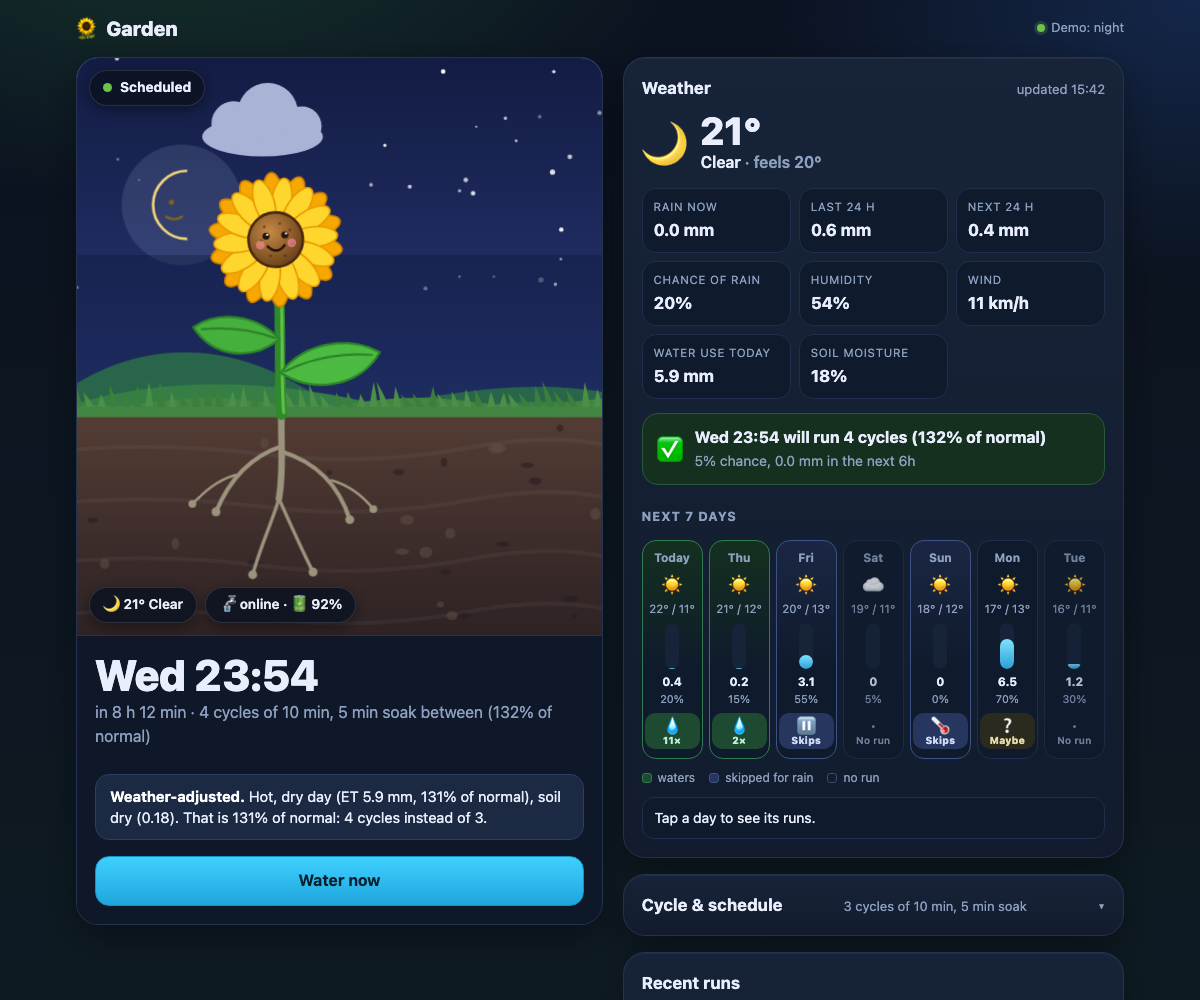
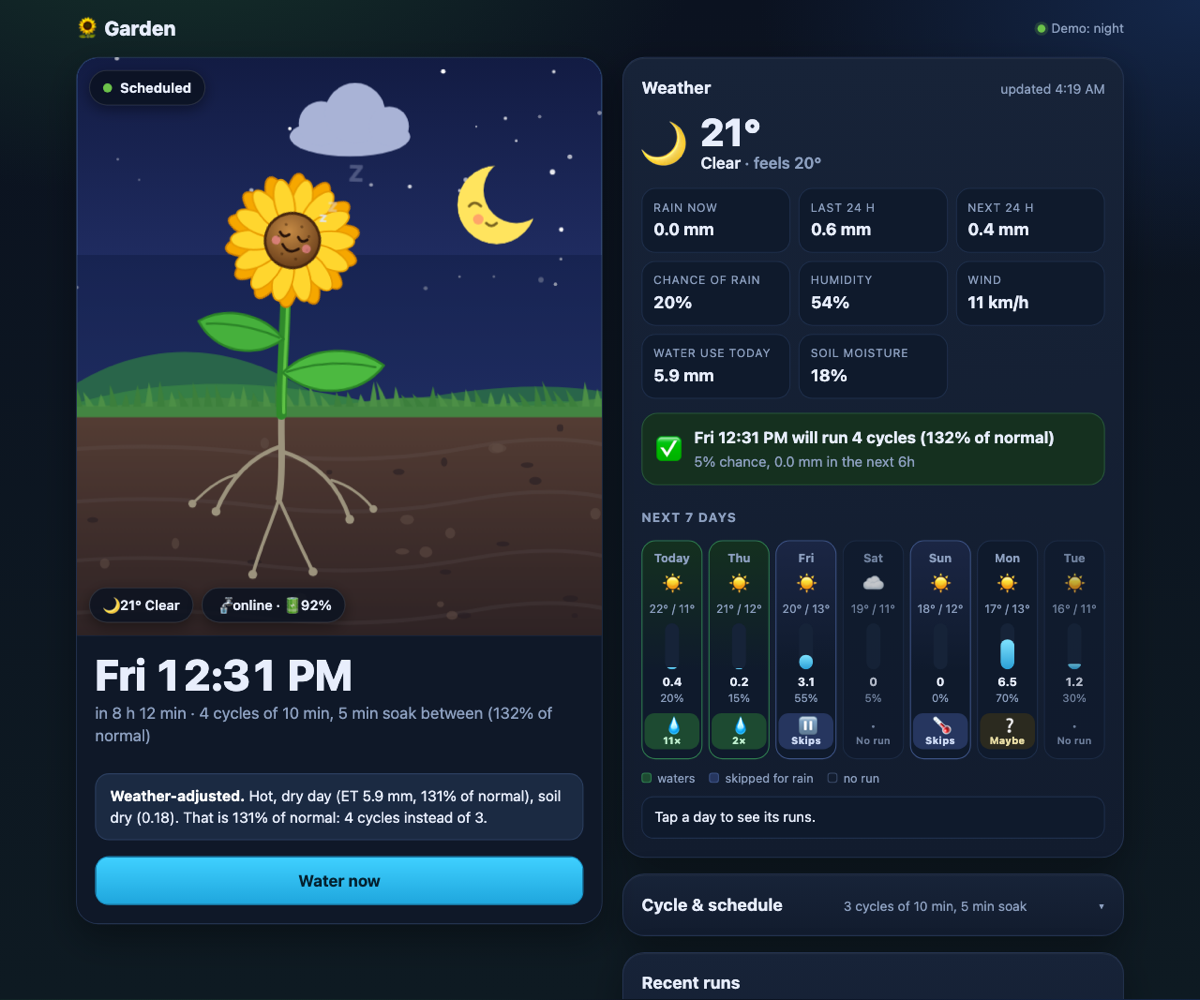
feat(ui): new moon, sleeping sunflower (#3)

diff --git a/docs/architecture/architecture.html b/docs/architecture/architecture.html
@@ -5197,7 +5197,7 @@ OTHER DEALINGS IN THE FONT SOFTWARE.
       </div>
     </div>
 
-    <script id="archify-source-evidence-data" type="application/json">{"schemaVersion":1,"verified":true,"repository":{"url":"https://github.com/srizzling/valve-controller","revision":"819355ffccd118fe5335145c0717883b1b1ebdf6","shortRevision":"819355f","label":"srizzling/valve-controller","href":"https://github.com/srizzling/valve-controller/tree/819355ffccd118fe5335145c0717883b1b1ebdf6"},"referenceCount":21,"nodes":{"you":[{"path":"worker/public/app.js","line":437,"endLine":447,"label":"UI calls /api","href":"https://github.com/srizzling/valve-controller/blob/819355ffccd118fe5335145c0717883b1b1ebdf6/worker/public/app.js#L437-L447"}],"access":[{"path":"worker/src/access.ts","line":48,"endLine":59,"label":"checkAccess","href":"https://github.com/srizzling/valve-controller/blob/819355ffccd118fe5335145c0717883b1b1ebdf6/worker/src/access.ts#L48-L59"}],"worker":[{"path":"worker/src/index.ts","line":20,"endLine":28,"label":"CSRF check, Access gate, routes","href":"https://github.com/srizzling/valve-controller/blob/819355ffccd118fe5335145c0717883b1b1ebdf6/worker/src/index.ts#L20-L28"},{"path":"worker/src/index.ts","line":87,"endLine":89,"label":"Security headers, Google routes","href":"https://github.com/srizzling/valve-controller/blob/819355ffccd118fe5335145c0717883b1b1ebdf6/worker/src/index.ts#L87-L89"},{"path":"worker/src/security.ts","line":13,"endLine":23,"label":"securityHeaders","href":"https://github.com/srizzling/valve-controller/blob/819355ffccd118fe5335145c0717883b1b1ebdf6/worker/src/security.ts#L13-L23"}],"controller":[{"path":"worker/src/controller.ts","line":137,"endLine":182,"label":"alarm: cycle/soak","href":"https://github.com/srizzling/valve-controller/blob/819355ffccd118fe5335145c0717883b1b1ebdf6/worker/src/controller.ts#L137-L182"},{"path":"worker/src/controller.ts","line":264,"endLine":310,"label":"supervise: one-hour limits","href":"https://github.com/srizzling/valve-controller/blob/819355ffccd118fe5335145c0717883b1b1ebdf6/worker/src/controller.ts#L264-L310"},{"path":"worker/src/smart.ts","line":52,"endLine":52,"label":"scale cycles by weather","href":"https://github.com/srizzling/valve-controller/blob/819355ffccd118fe5335145c0717883b1b1ebdf6/worker/src/smart.ts#L52"}],"tuya":[{"path":"worker/src/tuya.ts","line":143,"endLine":150,"label":"signed client","href":"https://github.com/srizzling/valve-controller/blob/819355ffccd118fe5335145c0717883b1b1ebdf6/worker/src/tuya.ts#L143-L150"},{"path":"worker/src/tuya.ts","line":166,"endLine":178,"label":"token refresh","href":"https://github.com/srizzling/valve-controller/blob/819355ffccd118fe5335145c0717883b1b1ebdf6/worker/src/tuya.ts#L166-L178"},{"path":"worker/src/tuya.ts","line":218,"endLine":220,"label":"sendCommands","href":"https://github.com/srizzling/valve-controller/blob/819355ffccd118fe5335145c0717883b1b1ebdf6/worker/src/tuya.ts#L218-L220"}],"valve":[{"path":"worker/src/valve.ts","line":65,"endLine":71,"label":"open + countdown","href":"https://github.com/srizzling/valve-controller/blob/819355ffccd118fe5335145c0717883b1b1ebdf6/worker/src/valve.ts#L65-L71"},{"path":"worker/src/valve.ts","line":78,"endLine":86,"label":"confirm state","href":"https://github.com/srizzling/valve-controller/blob/819355ffccd118fe5335145c0717883b1b1ebdf6/worker/src/valve.ts#L78-L86"}],"cron":[{"path":"worker/wrangler.jsonc","line":14,"endLine":14,"label":"* * * * *","href":"https://github.com/srizzling/valve-controller/blob/819355ffccd118fe5335145c0717883b1b1ebdf6/worker/wrangler.jsonc#L14"},{"path":"worker/src/index.ts","line":82,"endLine":84,"label":"scheduled -\u003e tick","href":"https://github.com/srizzling/valve-controller/blob/819355ffccd118fe5335145c0717883b1b1ebdf6/worker/src/index.ts#L82-L84"}],"google":[{"path":"worker/src/google.ts","line":108,"endLine":108,"label":"fulfillment","href":"https://github.com/srizzling/valve-controller/blob/819355ffccd118fe5335145c0717883b1b1ebdf6/worker/src/google.ts#L108"}],"weather":[{"path":"worker/src/rain.ts","line":15,"endLine":15,"label":"forecast API","href":"https://github.com/srizzling/valve-controller/blob/819355ffccd118fe5335145c0717883b1b1ebdf6/worker/src/rain.ts#L15"},{"path":"worker/src/weather.ts","line":164,"endLine":164,"label":"fetch forecast, ET and soil moisture","href":"https://github.com/srizzling/valve-controller/blob/819355ffccd118fe5335145c0717883b1b1ebdf6/worker/src/weather.ts#L164"},{"path":"worker/src/weather.ts","line":122,"endLine":123,"label":"fresh 30 min, stale up to 6 h","href":"https://github.com/srizzling/valve-controller/blob/819355ffccd118fe5335145c0717883b1b1ebdf6/worker/src/weather.ts#L122-L123"}],"ntfy":[{"path":"worker/src/ntfy.ts","line":11,"endLine":22,"label":"notify","href":"https://github.com/srizzling/valve-controller/blob/819355ffccd118fe5335145c0717883b1b1ebdf6/worker/src/ntfy.ts#L11-L22"}],"hc":[{"path":"worker/src/heartbeat.ts","line":15,"endLine":23,"label":"ping","href":"https://github.com/srizzling/valve-controller/blob/819355ffccd118fe5335145c0717883b1b1ebdf6/worker/src/heartbeat.ts#L15-L23"}]}}</script>
+    <script id="archify-source-evidence-data" type="application/json">{"schemaVersion":1,"verified":true,"repository":{"url":"https://github.com/srizzling/valve-controller","revision":"aade5196653e9800a7ef33b2846b3ca043f83cb8","shortRevision":"aade519","label":"srizzling/valve-controller","href":"https://github.com/srizzling/valve-controller/tree/aade5196653e9800a7ef33b2846b3ca043f83cb8"},"referenceCount":21,"nodes":{"you":[{"path":"worker/public/app.js","line":437,"endLine":447,"label":"UI calls /api","href":"https://github.com/srizzling/valve-controller/blob/aade5196653e9800a7ef33b2846b3ca043f83cb8/worker/public/app.js#L437-L447"}],"access":[{"path":"worker/src/access.ts","line":48,"endLine":59,"label":"checkAccess","href":"https://github.com/srizzling/valve-controller/blob/aade5196653e9800a7ef33b2846b3ca043f83cb8/worker/src/access.ts#L48-L59"}],"worker":[{"path":"worker/src/index.ts","line":20,"endLine":28,"label":"CSRF check, Access gate, routes","href":"https://github.com/srizzling/valve-controller/blob/aade5196653e9800a7ef33b2846b3ca043f83cb8/worker/src/index.ts#L20-L28"},{"path":"worker/src/index.ts","line":87,"endLine":89,"label":"Security headers, Google routes","href":"https://github.com/srizzling/valve-controller/blob/aade5196653e9800a7ef33b2846b3ca043f83cb8/worker/src/index.ts#L87-L89"},{"path":"worker/src/security.ts","line":13,"endLine":23,"label":"securityHeaders","href":"https://github.com/srizzling/valve-controller/blob/aade5196653e9800a7ef33b2846b3ca043f83cb8/worker/src/security.ts#L13-L23"}],"controller":[{"path":"worker/src/controller.ts","line":137,"endLine":182,"label":"alarm: cycle/soak","href":"https://github.com/srizzling/valve-controller/blob/aade5196653e9800a7ef33b2846b3ca043f83cb8/worker/src/controller.ts#L137-L182"},{"path":"worker/src/controller.ts","line":264,"endLine":310,"label":"supervise: one-hour limits","href":"https://github.com/srizzling/valve-controller/blob/aade5196653e9800a7ef33b2846b3ca043f83cb8/worker/src/controller.ts#L264-L310"},{"path":"worker/src/smart.ts","line":52,"endLine":52,"label":"scale cycles by weather","href":"https://github.com/srizzling/valve-controller/blob/aade5196653e9800a7ef33b2846b3ca043f83cb8/worker/src/smart.ts#L52"}],"tuya":[{"path":"worker/src/tuya.ts","line":143,"endLine":150,"label":"signed client","href":"https://github.com/srizzling/valve-controller/blob/aade5196653e9800a7ef33b2846b3ca043f83cb8/worker/src/tuya.ts#L143-L150"},{"path":"worker/src/tuya.ts","line":166,"endLine":178,"label":"token refresh","href":"https://github.com/srizzling/valve-controller/blob/aade5196653e9800a7ef33b2846b3ca043f83cb8/worker/src/tuya.ts#L166-L178"},{"path":"worker/src/tuya.ts","line":218,"endLine":220,"label":"sendCommands","href":"https://github.com/srizzling/valve-controller/blob/aade5196653e9800a7ef33b2846b3ca043f83cb8/worker/src/tuya.ts#L218-L220"}],"valve":[{"path":"worker/src/valve.ts","line":65,"endLine":71,"label":"open + countdown","href":"https://github.com/srizzling/valve-controller/blob/aade5196653e9800a7ef33b2846b3ca043f83cb8/worker/src/valve.ts#L65-L71"},{"path":"worker/src/valve.ts","line":78,"endLine":86,"label":"confirm state","href":"https://github.com/srizzling/valve-controller/blob/aade5196653e9800a7ef33b2846b3ca043f83cb8/worker/src/valve.ts#L78-L86"}],"cron":[{"path":"worker/wrangler.jsonc","line":14,"endLine":14,"label":"* * * * *","href":"https://github.com/srizzling/valve-controller/blob/aade5196653e9800a7ef33b2846b3ca043f83cb8/worker/wrangler.jsonc#L14"},{"path":"worker/src/index.ts","line":82,"endLine":84,"label":"scheduled -\u003e tick","href":"https://github.com/srizzling/valve-controller/blob/aade5196653e9800a7ef33b2846b3ca043f83cb8/worker/src/index.ts#L82-L84"}],"google":[{"path":"worker/src/google.ts","line":108,"endLine":108,"label":"fulfillment","href":"https://github.com/srizzling/valve-controller/blob/aade5196653e9800a7ef33b2846b3ca043f83cb8/worker/src/google.ts#L108"}],"weather":[{"path":"worker/src/rain.ts","line":15,"endLine":15,"label":"forecast API","href":"https://github.com/srizzling/valve-controller/blob/aade5196653e9800a7ef33b2846b3ca043f83cb8/worker/src/rain.ts#L15"},{"path":"worker/src/weather.ts","line":164,"endLine":164,"label":"fetch forecast, ET and soil moisture","href":"https://github.com/srizzling/valve-controller/blob/aade5196653e9800a7ef33b2846b3ca043f83cb8/worker/src/weather.ts#L164"},{"path":"worker/src/weather.ts","line":122,"endLine":123,"label":"fresh 30 min, stale up to 6 h","href":"https://github.com/srizzling/valve-controller/blob/aade5196653e9800a7ef33b2846b3ca043f83cb8/worker/src/weather.ts#L122-L123"}],"ntfy":[{"path":"worker/src/ntfy.ts","line":11,"endLine":22,"label":"notify","href":"https://github.com/srizzling/valve-controller/blob/aade5196653e9800a7ef33b2846b3ca043f83cb8/worker/src/ntfy.ts#L11-L22"}],"hc":[{"path":"worker/src/heartbeat.ts","line":15,"endLine":23,"label":"ping","href":"https://github.com/srizzling/valve-controller/blob/aade5196653e9800a7ef33b2846b3ca043f83cb8/worker/src/heartbeat.ts#L15-L23"}]}}</script>
     <script id="archify-i18n-data" type="application/json">{"locale":"en","messages":{"viewer.kind.frontend":"Frontend","viewer.kind.backend":"Backend","viewer.kind.database":"Database","viewer.kind.cloud":"Cloud","viewer.kind.security":"Security","viewer.kind.messagebus":"Message bus","viewer.kind.external":"External","viewer.kind.neutral":"Neutral","viewer.kind.node":"Node","viewer.kind.start":"Start","viewer.kind.active":"Active","viewer.kind.waiting":"Waiting","viewer.kind.decision":"Decision","viewer.kind.success":"Success","viewer.kind.failure":"Failure","viewer.toolbar.actions":"Diagram actions","viewer.theme.toggle.title":"Toggle theme (T)","viewer.theme.toggle":"Toggle color theme","viewer.theme.dark":"Dark","viewer.theme.light":"Light","viewer.preset.choose.title":"Choose visual style (S cycles)","viewer.preset.choose":"Choose visual style","viewer.preset.style":"Style","viewer.preset.menu":"Visual style","viewer.preset.identity":"Visual identity","viewer.preset.cycles":"to cycle","viewer.preset.classic":"Classic","viewer.preset.classic.short":"Classic","viewer.preset.classic.hint":"Stable technical default","viewer.preset.flow":"Signal Flow","viewer.preset.flow.short":"Flow","viewer.preset.flow.hint":"Motion-forward presentation","viewer.preset.blueprint":"Blueprint","viewer.preset.blueprint.hint":"Engineering review","viewer.preset.editorial":"Editorial","viewer.preset.editorial.hint":"Publication and launch notes","viewer.preset.badge.signalFlow":"SIGNAL FLOW","viewer.preset.badge.blueprint":"BLUEPRINT / REV 01","viewer.preset.badge.editorial":"EDITORIAL / FIELD NOTE","viewer.preset.badge.editorialPlate":"ARCHIFY / PLATE 04","viewer.preset.current":"Visual style: {style}. Choose visual style","viewer.motion.live":"Live","viewer.motion.still":"Still","viewer.motion.pause":"Pause motion","viewer.motion.resume":"Resume motion","viewer.motion.reduced":"Motion paused by reduced-motion preference","viewer.motion.hidden":"Motion paused while this page is hidden","viewer.motion.yielding":"Pause motion; currently yielding to {owner}","viewer.motion.yielding.title":"Live preview enabled · yielding to {owner}","viewer.owner.route":"Route Probe","viewer.owner.lens":"Semantic Lens","viewer.owner.relationship":"Relationship Preview","viewer.owner.intent":"Intent Trace","viewer.owner.focus":"semantic focus","viewer.owner.legend":"legend preview","viewer.owner.reader":"reader interaction","viewer.present.enter":"Enter presentation stage","viewer.present.enter.title":"Presentation stage (F)","viewer.present.exit":"Exit presentation stage","viewer.present.exit.title":"Exit presentation stage (F or Escape)","viewer.present.present":"Present","viewer.present.exit.label":"Exit","viewer.export.button":"Export","viewer.export.button.title":"Export diagram (E)","viewer.export.diagram":"Export diagram","viewer.export.menu":"Export","viewer.export.subtitle":"Portable, clean outputs","viewer.export.share":"Share","viewer.export.shareCard":"Share Card","viewer.export.routeShareCard":"Route Share Card","viewer.export.reachShareCard":"Reach Share Card","viewer.export.copyDiagram":"Copy diagram","viewer.export.clipboardPng":"PNG to clipboard","viewer.export.raster":"Raster images","viewer.export.image":"Image","viewer.export.lossless":"Lossless image","viewer.export.compact":"Compact image","viewer.export.modern":"Modern image","viewer.export.vectorMotion":"Vector and motion","viewer.export.vectorMotion.heading":"Vector \u0026 motion","viewer.export.editable":"Editable vector","viewer.export.svg.auto":"SVG · Auto","viewer.export.svg.auto.hint":"Matches host theme","viewer.export.svg.light":"SVG · Light","viewer.export.svg.light.hint":"Always light","viewer.export.svg.dark":"SVG · Dark","viewer.export.svg.dark.hint":"Always dark","viewer.export.motion6s":"6s motion","viewer.export.unsupported":"Not supported by this browser","viewer.export.clipboardUnsupported":"Clipboard image write not supported by this browser","viewer.export.clipboardUnsupported.short":"Clipboard image write not supported in this browser.","viewer.export.motionUnavailable":"Motion capture unavailable in this browser","viewer.export.webmUnavailable":"WebM unavailable in this browser","viewer.export.failed":"Export failed: {message}","viewer.export.unknownVariant":"Unknown Share Card variant: {variant}","viewer.export.routeRequired":"Trace a route before exporting a Route Share Card","viewer.export.reachRequired":"Trace authored reach before exporting a Reach Share Card","viewer.export.unknown":"unknown","viewer.export.routeFailed":"Route Share Card export failed: {message}","viewer.export.reachFailed":"Reach Share Card export failed: {message}","viewer.export.copyFailed":"Copy failed: {message}","viewer.export.copiedPng":"Copied PNG to clipboard","viewer.export.downloadedRoute":"Downloaded Route Share Card","viewer.export.downloadedReach":"Downloaded Reach Share Card","viewer.export.downloadedWebm":"Downloaded WebM","viewer.export.recording":"Recording 6 seconds of motion…","viewer.export.card.routeSummary.one":"Path: {source} → {target} · {count} step","viewer.export.card.routeSummary.other":"Path: {source} → {target} · {count} steps","viewer.export.card.reachSummary":"Authored {direction} from {origin} · {nodes} · {links} · max {hops}","viewer.export.card.node.one":"{count} node","viewer.export.card.node.other":"{count} nodes","viewer.export.card.link.one":"{count} link","viewer.export.card.link.other":"{count} links","viewer.export.card.hop.one":"{count} hop","viewer.export.card.hop.other":"{count} hops","viewer.export.card.routeBadge":"ARCHIFY · ROUTE · {hops}","viewer.export.card.reachBadge":"ARCHIFY · {direction} REACH","viewer.export.direction.upstream":"Upstream","viewer.export.direction.downstream":"Downstream","viewer.export.error.canvasUnavailable":"Canvas unavailable for {label}","viewer.export.error.contextUnavailable":"2D canvas context unavailable for {label}","viewer.export.error.toBlobUnavailable":"canvas.toBlob unavailable for {label}","viewer.export.error.toBlobNull":"canvas.toBlob returned no data for {label}","viewer.export.error.variantsCombined":"Share Card variants cannot be combined","viewer.export.error.viewerState":"Share Card export could not remove temporary viewer state","viewer.export.error.routeState":"Route Card export could not preserve the resolved route safely","viewer.export.error.reachState":"Reach Card export could not preserve authored reach safely","viewer.export.error.webmRequirements":"WebM motion export requires a trace animation and browser MediaRecorder support","viewer.export.error.mediaRecorder":"MediaRecorder failed","viewer.export.error.emptyWebm":"MediaRecorder produced an empty WebM","viewer.export.error.webmBackground":"SVG background could not be loaded for WebM export","viewer.guide.title":"Explore this system","viewer.focus.selectedNodes":"{count} selected nodes","viewer.guide.eyebrow":"Diagram guide","viewer.guide.close":"Close diagram guide","viewer.guide.inspecting":"Inspecting compiled semantics","viewer.guide.actions":"Diagram exploration actions","viewer.guide.find":"Find any node","viewer.guide.find.hint":"Search labels, responsibilities, kinds, and stable IDs.","viewer.guide.route":"Trace a route","viewer.guide.route.aria":"Trace a directed route","viewer.guide.route.hint":"Ask how two semantic nodes connect in authored direction.","viewer.guide.map":"See the whole system","viewer.guide.map.hint":"Open Semantic Radar with a live viewport and stable nodes.","viewer.guide.lens":"Compare semantic kinds","viewer.guide.lens.hint":"Count roles, reveal their traffic, and compare direct authored links.","viewer.guide.present":"Enter Presentation Stage","viewer.guide.present.hint":"Give the live diagram the viewport without changing export.","viewer.guide.shortcuts":"Additional keyboard shortcuts","viewer.guide.shortcut.export":"Export","viewer.guide.shortcut.theme":"Theme","viewer.guide.shortcut.style":"Style","viewer.guide.shortcut.reset":"Reset","viewer.guide.shortcut.zoomIn":"Zoom in","viewer.guide.shortcut.zoomOut":"Zoom out","viewer.guide.shortcut.close":"Close","viewer.guide.credit":"Find Archify useful? A star on GitHub helps","viewer.guide.star":"Star","viewer.guide.facts":"{nodes} · {relationships}","viewer.guide.fact.node.one":"{count} semantic node","viewer.guide.fact.node.other":"{count} semantic nodes","viewer.guide.fact.relationship.one":"{count} relationship","viewer.guide.fact.relationship.other":"{count} relationships","viewer.guide.open":"Open diagram guide","viewer.finder.title":"Find a node","viewer.finder.close":"Close node finder","viewer.finder.placeholder":"Search labels or IDs","viewer.finder.search":"Search diagram nodes","viewer.finder.results":"Diagram nodes","viewer.finder.empty":"No matching nodes","viewer.finder.result.focus":"Focus {label}","viewer.finder.result.routeStart":"Choose {label} as route start","viewer.finder.result.routeTarget":"Choose {label} as route destination, {links}","viewer.finder.status.empty":"No matching nodes","viewer.finder.status.count.one":"{count} matching node","viewer.finder.status.count.other":"{count} matching nodes","viewer.finder.noun.nodes":"nodes","viewer.finder.link.one":"{count} link","viewer.finder.link.other":"{count} links","viewer.finder.result.focus.one":"Focus {label}, {count} related connection","viewer.finder.result.focus.other":"Focus {label}, {count} related connections","viewer.finder.status.filtered":"{visible} of {available} {noun}","viewer.finder.status.all":"{available} {noun}","viewer.passport.eyebrow":"Semantic passport","viewer.passport.metadata":"Node metadata","viewer.passport.evidence":"Verified source evidence","viewer.passport.verified":"Verified source","viewer.passport.verificationScope":"Verified against local Git at the pinned revision. Remote access has not been checked.","viewer.passport.reach":"Authored reach","viewer.passport.reach.trace":"Trace authored reachability","viewer.passport.upstream":"Upstream","viewer.passport.downstream":"Downstream","viewer.passport.upstream.trace":"Trace upstream authored reachability","viewer.passport.downstream.trace":"Trace downstream authored reachability","viewer.passport.close":"Close semantic passport","viewer.passport.move":"Move semantic passport. Drag, use arrow keys, or press Home to reset.","viewer.passport.copy":"Copy link","viewer.passport.copy.focus":"Copy link to focused node","viewer.passport.relations":"Relations","viewer.passport.relations.show":"Show connected relationships","viewer.passport.relations.hide":"Hide connected relationships","viewer.passport.relations.list":"Connected relationships","viewer.passport.copyRelation":"Copy relation","viewer.passport.copyNode":"Copy node","viewer.passport.copyPinned":"Copy link to pinned relationship","viewer.passport.copySource":"Copy link to source node","viewer.passport.copy.focused.success":"Focused node link copied","viewer.passport.copy.pinned.success":"Pinned relationship link copied","viewer.passport.copy.focused.failed":"Could not copy focused node link","viewer.passport.copy.pinned.failed":"Could not copy pinned relationship link","viewer.passport.relationship.none":"No connected relationships","viewer.passport.relationship.count.one":"{count} relation","viewer.passport.relationship.count.other":"{count} relations","viewer.passport.relationship.show.one":"Show {count} connected relationship","viewer.passport.relationship.show.other":"Show {count} connected relationships","viewer.passport.relationship.summary":"{out} outgoing · {in} incoming{loops}","viewer.passport.relationship.loops":" · {count} loop","viewer.passport.relationship.explorer":"Direct relationship explorer","viewer.passport.relationship.help":"Use arrow keys to explore relationships. Press Enter or Space to pin details; Escape clears.","viewer.passport.relationship.loopsBack":"loops back","viewer.passport.relationship.connectsTo":"connects to","viewer.passport.relationship.connectsFrom":"connects from","viewer.passport.relationship.pinned":"Pinned relationship · {from} → {to} · {label}","viewer.passport.relationship.inspect":"Inspect relationship {index} of {total}: {from} to {to}, {label}. Press Enter for details.","viewer.passport.relationship.group.out":"Outgoing","viewer.passport.relationship.group.in":"Incoming","viewer.passport.relationship.group.loop":"Self loops","viewer.passport.relationship.row":"{group}: {relationship}, {neighbor}","viewer.passport.relationship.direction.out":"OUT →","viewer.passport.relationship.direction.in":"← IN","viewer.passport.relationship.direction.loop":"LOOP","viewer.passport.sourceCount.one":"{count} verified source reference","viewer.passport.sourceCount.other":"{count} verified source references","viewer.passport.repository.open":"Open verified repository revision {revision}","viewer.passport.source.open":"Open verified source {path} at revision {revision}","viewer.passport.source.openLink":"Open ↗","viewer.passport.reach.upstream.one":"Trace {count} upstream authored node","viewer.passport.reach.upstream.other":"Trace {count} upstream authored nodes","viewer.passport.reach.downstream.one":"Trace {count} downstream authored node","viewer.passport.reach.downstream.other":"Trace {count} downstream authored nodes","viewer.passport.reach.noUpstream":"No upstream authored nodes","viewer.passport.reach.noDownstream":"No downstream authored nodes","viewer.passport.reach.status":"{direction} · {nodes} nodes · {links} links · max {hops} hops","viewer.route.eyebrow":"Path","viewer.route.start":"Click where the path starts","viewer.route.start.find":"Find start","viewer.route.start.find.aria":"Find a route start","viewer.route.copy":"Copy link","viewer.route.copy.aria":"Copy link to traced route","viewer.route.clear":"Clear","viewer.route.clear.aria":"Clear route probe","viewer.route.traced":"Path","viewer.route.pickTwo":"Click two nodes on the diagram","viewer.route.pickOne":"Click a node on the diagram","viewer.route.controls":"Route journey controls","viewer.route.previous":"Previous route position","viewer.route.play":"Play route journey","viewer.route.pause":"Pause route journey","viewer.route.replay":"Replay route journey","viewer.route.next":"Next route position","viewer.route.journey":"Journey","viewer.route.pause.label":"Pause","viewer.route.replay.label":"Replay","viewer.route.overview":"Overview","viewer.route.overview.aria":"Show complete route overview","viewer.route.instructions":"Click a start, then an end. Paths follow the arrows.","viewer.route.destination":"Where does the path from {label} end?","viewer.route.destination.find":"Find target","viewer.route.destination.find.aria":"Find a reachable route destination","viewer.route.differentDestination":"Choose a different destination","viewer.route.distinct":"Pick two different nodes.","viewer.route.unreachable":"Cannot reach {label} from here","viewer.route.unreachable.detail":"{target} cannot be reached from {source} along the arrows. Pick a highlighted node.","viewer.route.start.instructions":"Next, pick the end. Only nodes you can reach will light up.","viewer.route.copy.success":"Traced route link copied","viewer.route.copy.failed":"Could not copy traced route link","viewer.route.position":"Route position {index} of {total}: {label}","viewer.route.step":"Step {index} of {total} · {phase} · {label}","viewer.route.motionRequired":"Automatic journey requires Live motion","viewer.route.trigger.clear":"Clear traced route","viewer.route.overview.status":"{nodes} · {hops} · shortest path","viewer.route.overview.node.one":"{count} node","viewer.route.overview.node.other":"{count} nodes","viewer.route.overview.hop.one":"{count} step","viewer.route.overview.hop.other":"{count} steps","viewer.route.phase.playing":"Playing","viewer.route.phase.complete":"Complete","viewer.route.phase.inspecting":"Inspecting","viewer.route.destination.count.one":"{count} reachable node is highlighted. Click it.","viewer.route.destination.count.other":"{count} reachable nodes are highlighted. Click one.","viewer.route.noOutgoing":"No arrows lead out of this node. Clear it and pick another start.","viewer.route.result.title":"{source} to {target}","viewer.route.finder.source.title":"Choose route start","viewer.route.finder.source.placeholder":"Search route sources","viewer.route.finder.source.empty":"No matching route sources","viewer.route.finder.source.results":"Nodes that can start a route","viewer.route.finder.source.noun":"route sources","viewer.route.finder.source.badge":"start","viewer.route.finder.target.title":"Destination from {label}","viewer.route.finder.target.placeholder":"Search reachable destinations","viewer.route.finder.target.empty":"No matching reachable destinations","viewer.route.finder.target.results":"Reachable route destinations","viewer.route.finder.target.noun":"reachable destinations","viewer.route.hop.one":"{count} hop","viewer.route.hop.other":"{count} hops","viewer.lens.eyebrow":"Semantic lens","viewer.lens.title":"Compare system roles","viewer.lens.close":"Close semantic lens","viewer.lens.instruction":"Choose up to two semantic kinds. One reveals its real traffic; two compare only direct authored relationships.","viewer.lens.kinds":"Semantic kinds","viewer.lens.choose":"Choose a kind to inspect its nodes and touching relationships.","viewer.lens.copy":"Copy link to semantic lens","viewer.lens.clear":"Clear semantic lens","viewer.lens.open":"Open semantic lens","viewer.lens.openActive":"Open active semantic lens","viewer.lens.legend":"Semantic legend","viewer.lens.legend.inspect.one":"Inspect {label}, {count} node","viewer.lens.legend.inspect.other":"Inspect {label}, {count} nodes","viewer.lens.kind.count.one":"{label}, {count} node","viewer.lens.kind.count.other":"{label}, {count} nodes","viewer.lens.compare.one":"{first} → {second}: {forward} · {second} → {first}: {reverse} · {count} direct relationship","viewer.lens.compare.other":"{first} → {second}: {forward} · {second} → {first}: {reverse} · {count} direct relationships","viewer.lens.single":"{nodes} · {relationships} · connected peers remain visible","viewer.lens.node.one":"{count} {label} node","viewer.lens.node.other":"{count} {label} nodes","viewer.lens.relationship.one":"{count} touching relationship","viewer.lens.relationship.other":"{count} touching relationships","viewer.radar.title":"Semantic radar","viewer.radar.building":"Building overview","viewer.radar.openFull":"Open full semantic radar","viewer.radar.open":"Open radar","viewer.radar.close":"Close semantic radar","viewer.radar.surface":"Diagram overview. Click a node to focus it, or use arrow keys to pan.","viewer.radar.click":"Click node","viewer.radar.drag":"Drag to pan","viewer.radar.space":"Semantic radar needs more MAP space.","viewer.radar.nodes":"Semantic diagram radar nodes","viewer.radar.focus":"Focus {label} from Semantic Radar","viewer.radar.status":"{count} nodes · {viewport}","viewer.radar.fullMap":"{count} nodes · full map","viewer.radar.compacted":"Radar compacted to avoid covering the Semantic Passport or MAP controls.","viewer.radar.cancelWaiting":"Cancel semantic radar waiting for more MAP space","viewer.radar.needsSpace":"Semantic radar needs more visible MAP space","viewer.radar.viewport.full":"full map","viewer.radar.viewport.width":"{percent}% width","viewer.radar.viewport.scale":"{percent}% viewport","viewer.nav.controls":"Diagram view controls","viewer.nav.route":"Trace a directed route","viewer.nav.route.title":"Trace route (R)","viewer.nav.route.short":"ROUTE","viewer.nav.radar":"Open semantic radar","viewer.nav.radar.title":"Semantic radar (M)","viewer.nav.radar.short":"MAP","viewer.nav.lens":"Open semantic lens","viewer.nav.lens.title":"Semantic lens (L)","viewer.nav.lens.short":"LENS","viewer.nav.find":"Find a node","viewer.nav.find.title":"Find a node (/)","viewer.outline.title":"Node index","viewer.rail.show":"Notes \u0026 index","viewer.rail.controls":"Side panel","viewer.rail.collapse":"Collapse side panel","viewer.rail.bottom":"Move panel below the diagram","viewer.rail.right":"Move panel beside the diagram","viewer.nav.guide":"Open diagram guide","viewer.nav.guide.title":"Diagram guide (?)","viewer.nav.zoomOut":"Zoom out","viewer.nav.zoomOut.title":"Zoom out (-)","viewer.nav.reset":"Reset diagram view","viewer.nav.reset.title":"Reset view (0)","viewer.nav.read":"READ","viewer.nav.zoomIn":"Zoom in","viewer.nav.zoomIn.title":"Zoom in (+)","viewer.nav.camera":"{hint}. Reset diagram view","viewer.nav.camera.title":"{semantic}{hint} · reset view (0)","viewer.nav.camera.semantic":"Semantic camera active · ","viewer.nav.level.map":"MAP","viewer.nav.level.read":"READ","viewer.nav.level.full":"FULL","viewer.nav.level.auto":"AUTO","viewer.nav.detail.map":"Zoom in to reveal relationship labels and node context","viewer.nav.detail.read":"Zoom in again to reveal tags and annotations","viewer.nav.detail.full":"Full diagram detail","viewer.intent.summary":"{label}. {out} outgoing, {in} incoming{loops}. {total} connections. Press Enter for details.","viewer.intent.loops":", {count} self loop","viewer.common.copied":"Copied","viewer.common.copyFailed":"Copy failed","viewer.common.copyLink":"Copy link","viewer.common.clear":"Clear","viewer.common.close":"Close"}}</script>
     <!-- Main Diagram -->
     <div class="diagram-container" data-detail-level="read"

diff --git a/worker/public/index.html b/worker/public/index.html
@@ -56,10 +56,12 @@
             <path d="M-9 7 Q0 15 9 7" fill="none" stroke="#7a3d00" stroke-width="2.4" stroke-linecap="round"/>
             <circle cx="-16" cy="5" r="4" fill="#ff9a6b" opacity=".55"/><circle cx="16" cy="5" r="4" fill="#ff9a6b" opacity=".55"/>
           </g>
-          <g class="fade moon" transform="translate(80 112)">
-            <circle r="46" fill="#cfe0ff" opacity=".12"/>
-            <path d="M4 -26 A26 26 0 1 0 4 26 A20 20 0 1 1 4 -26Z" fill="#fff1bd" stroke="#f3d77a" stroke-width="2"/>
-            <circle cx="-8" cy="-2" r="2" fill="#7a6420"/><path d="M-12 9 Q-6 13 0 9" fill="none" stroke="#7a6420" stroke-width="2" stroke-linecap="round"/>
+          <g class="fade moon" transform="translate(320 112)">
+            <mask id="moonCut" maskUnits="userSpaceOnUse" x="-40" y="-40" width="80" height="80"><circle r="30" fill="#fff"/><circle cx="15" cy="-11" r="25" fill="#000"/></mask>
+            <circle r="30" fill="#ffe45e" mask="url(#moonCut)"/>
+            <path d="M-21 1 Q-17 -4 -12 1" fill="none" stroke="#7a6420" stroke-width="2" stroke-linecap="round"/>
+            <circle cx="-14" cy="11" r="4" fill="#ff9a6b" opacity=".85"/>
+            <path d="M-8 14 Q-4 18 0 14" fill="none" stroke="#7a6420" stroke-width="2" stroke-linecap="round"/>
           </g>
 
           <!-- drifting clouds -->
@@ -135,9 +137,17 @@
                   <g class="eyes eyes-happy" fill="none" stroke="#25120a" stroke-width="2.6" stroke-linecap="round">
                     <path d="M186.5 102.5 Q191 95.5 195.5 102.5"/><path d="M204.5 102.5 Q209 95.5 213.5 102.5"/>
                   </g>
+                  <g class="eyes eyes-asleep" fill="none" stroke="#25120a" stroke-width="2.6" stroke-linecap="round">
+                    <path d="M186.5 100.5 Q191 106 195.5 100.5"/><path d="M204.5 100.5 Q209 106 213.5 100.5"/>
+                  </g>
                   <path d="M192 111 Q200 120 208 111" fill="none" stroke="#25120a" stroke-width="2.4" stroke-linecap="round"/>
                   <circle cx="185" cy="109" r="4.2" fill="#ff8fa3" opacity=".6"/><circle cx="215" cy="109" r="4.2" fill="#ff8fa3" opacity=".6"/>
                 </g>
+              </g>
+              <g class="zzz" font-family="Nunito, system-ui, sans-serif" font-weight="800" fill="#dfe6ff">
+                <text x="232" y="86" font-size="13">z</text>
+                <text class="z2" x="242" y="72" font-size="17">z</text>
+                <text class="z3" x="254" y="55" font-size="22">Z</text>
               </g>
             </g></g>
             </g>

diff --git a/worker/public/style.css b/worker/public/style.css
@@ -273,6 +273,17 @@ button.day { font: inherit; color: inherit; cursor: pointer; }
 .scene[data-wet="on"] .eyes-happy { opacity: 1; }
 .scene[data-wet="on"] .eyes-open { opacity: 0; }
 .scene[data-wet="on"] .head { animation: perk 1.5s ease-in-out infinite; }
+
+/* asleep: only at night, and anything that wets the plant wakes it up */
+.eyes-asleep { opacity: 0; transition: opacity .3s; }
+.scene[data-night="on"][data-wet="off"] .eyes-asleep { opacity: 1; }
+.scene[data-night="on"][data-wet="off"] .eyes-open { opacity: 0; }
+.scene[data-night="on"][data-wet="off"] .head { transform: rotate(13deg); animation: snooze 5s ease-in-out infinite alternate; }
+.zzz { opacity: 0; }
+.scene[data-night="on"][data-wet="off"] .zzz { opacity: .85; }
+.zzz text { animation: zzz 4.2s ease-in-out infinite; }
+.zzz .z2 { animation-delay: 1.2s; }
+.zzz .z3 { animation-delay: 2.4s; }
 .scene[data-wet="on"] .leaf { animation: leafwet 1s ease-in-out infinite alternate; }
 
 /* bee */
@@ -323,6 +334,8 @@ button.day { font: inherit; color: inherit; cursor: pointer; }
 @keyframes nod { from { transform: rotate(-2.5deg); } to { transform: rotate(2.5deg); } }
 @keyframes leaf { from { transform: rotate(-3deg); } to { transform: rotate(4deg); } }
 @keyframes leafwet { from { transform: rotate(-6deg); } to { transform: rotate(7deg); } }
+@keyframes snooze { from { transform: rotate(11deg); } to { transform: rotate(15deg); } }
+@keyframes zzz { 0% { opacity: 0; transform: translate(-4px, 6px); } 25%, 60% { opacity: 1; } 100% { opacity: 0; transform: translate(4px, -8px); } }
 @keyframes perk { 0%, 100% { transform: translateY(0) scale(1); } 40% { transform: translateY(2.5px) scale(1.04, .97); } 70% { transform: translateY(-2px) scale(.98, 1.03); } }
 @keyframes grow { from { transform: scale(.88, .7); } to { transform: scale(1); } }
 @keyframes blink { 0%, 93%, 100% { transform: scaleY(1); } 96% { transform: scaleY(.08); } }

diff --git a/worker/public/app.js b/worker/public/app.js
@@ -161,7 +161,8 @@ function renderScene() {
   svg.dataset.rain = raining ? "on" : "off";
   svg.dataset.wet = phase === "watering" || raining ? "on" : "off";
   const words = { clear: night ? "a clear night" : "a sunny sky", partly: "a partly cloudy sky", cloudy: "an overcast sky", rain: "falling rain" };
-  const what = phase === "watering" ? "being watered" : phase === "soaking" ? "while the water soaks in" : "standing happily";
+  const asleep = night && svg.dataset.wet === "off";
+  const what = phase === "watering" ? "being watered" : phase === "soaking" ? "while the water soaks in" : asleep ? "fast asleep" : "standing happily";
   svg.setAttribute("aria-label", `A cartoon sunflower ${what}, with ${words[sky]}`);
 }
 
